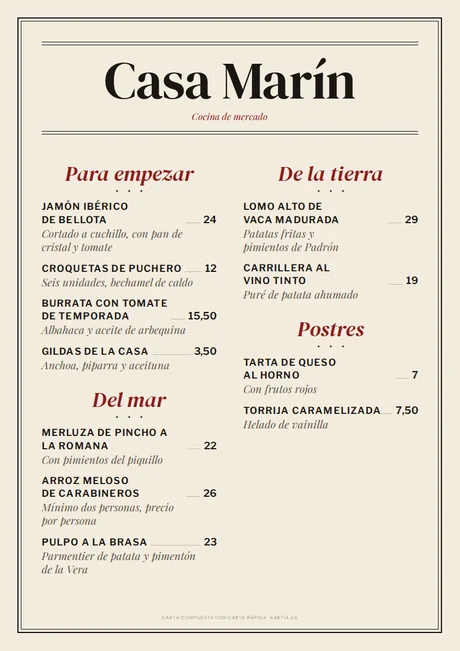
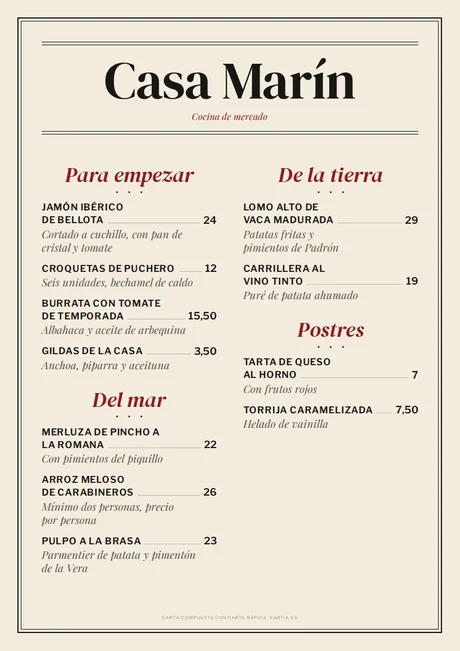
Brasserie: puntos guía desde la última palabra hasta el precio
Claude-Session: https://claude.ai/code/session_01SzwNiAUVrL49fWYiV5y5SR

diff --git a/public/carta/estilos.css b/public/carta/estilos.css
@@ -230,11 +230,12 @@
 .est-brasserie .sec-t { text-align: center; font-family: 'DM Serif Display', serif; font-style: italic; font-weight: 400; font-size: calc(19pt * var(--k)); line-height: 1.05; color: var(--acento); margin-bottom: calc(4pt * var(--k)); }
 .est-brasserie .sec-t::after { content: '• • •'; display: block; font-style: normal; font-size: .32em; letter-spacing: .6em; padding-left: .6em; color: var(--tinta); margin-top: calc(2pt * var(--k)); }
 .est-brasserie .pl { margin-top: calc(5.4pt * var(--k)); }
-.est-brasserie .pl-l { column-gap: 1.6mm; align-items: flex-end; }
-.est-brasserie .pl-n { flex: 0 1 auto; font-family: 'Libre Franklin', sans-serif; font-weight: 600; font-size: calc(8.4pt * var(--k)); letter-spacing: .05em; text-transform: uppercase; line-height: 1.35; }
+.est-brasserie .pl-l { display: block; position: relative; padding-right: 3.4em; font-family: 'Libre Franklin', sans-serif; font-size: calc(8.4pt * var(--k)); line-height: 1.35; }
+/* Puntos guía desde la última palabra hasta el precio (también si el nombre ocupa dos líneas) */
+.est-brasserie .pl-l::after { content: ''; position: absolute; left: 0; right: .2em; bottom: .36em; border-bottom: 1.1pt dotted var(--suave); opacity: .75; }
+.est-brasserie .pl-n { position: relative; z-index: 1; background: var(--papel); padding-right: .4em; font-weight: 600; font-size: 1em; letter-spacing: .05em; text-transform: uppercase; -webkit-box-decoration-break: clone; box-decoration-break: clone; }
 .est-brasserie .pl-r { text-transform: none; letter-spacing: .02em; font-weight: 500; }
-.est-brasserie .pl-g { display: block; flex: 1 1 6mm; min-width: 6mm; margin-bottom: calc(2.6pt * var(--k)); border-bottom: 1.1pt dotted var(--suave); opacity: .7; }
-.est-brasserie .pl-p { font-family: 'Libre Franklin', sans-serif; font-weight: 600; font-size: calc(9pt * var(--k)); line-height: 1.35; }
+.est-brasserie .pl-p { position: absolute; right: 0; bottom: 0; z-index: 1; background: var(--papel); padding-left: .3em; font-weight: 600; font-size: calc(9pt * var(--k)); line-height: 1.35; }
 .est-brasserie .pl-d { font-style: italic; font-size: calc(9.6pt * var(--k)); color: var(--suave); line-height: 1.25; margin-top: .4pt; }
 .est-brasserie .pl-a { font-family: 'Libre Franklin', sans-serif; font-size: calc(6.6pt * var(--k)); color: var(--suave); letter-spacing: .06em; text-transform: uppercase; }
 .est-brasserie .pl-etq { font-family: 'Libre Franklin', sans-serif; font-weight: 600; font-size: calc(6.2pt * var(--k)); letter-spacing: .16em; text-transform: uppercase; color: var(--acento); }
